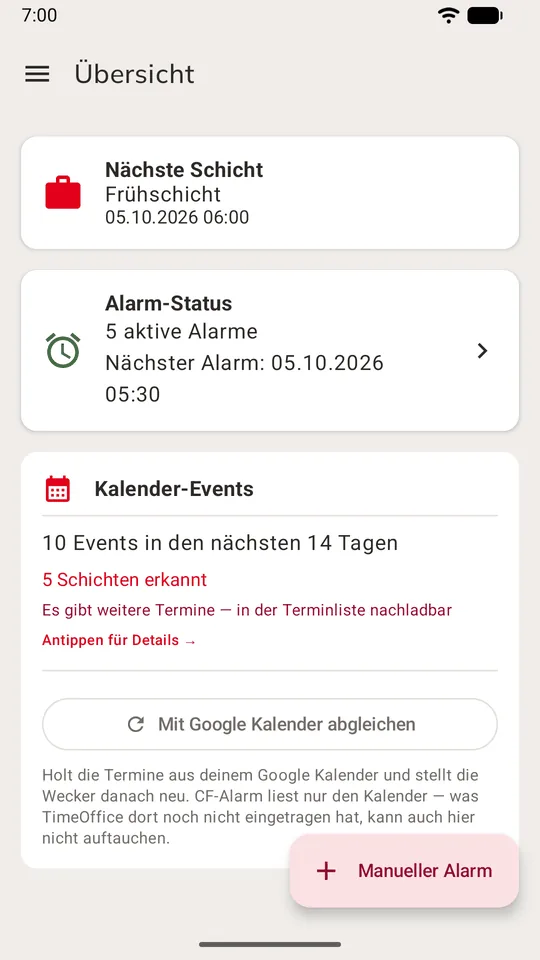
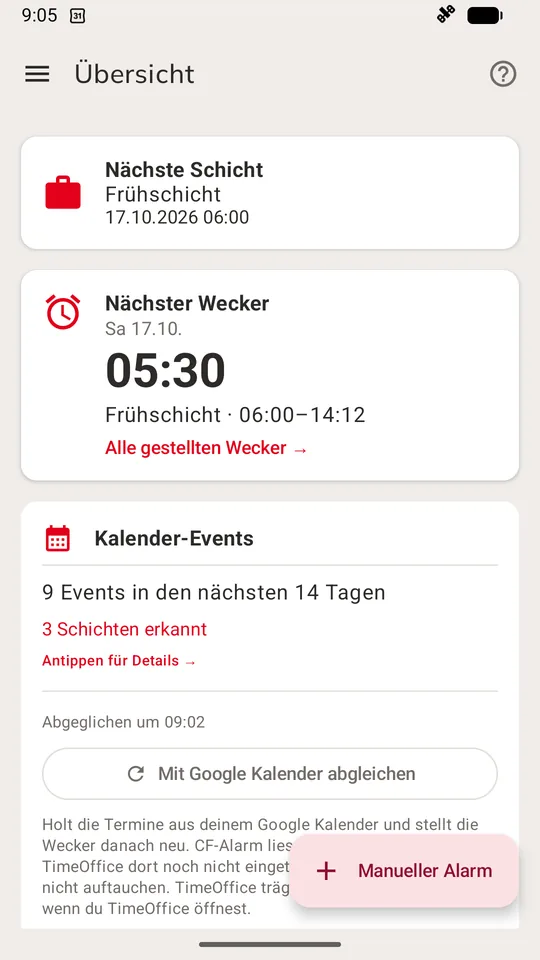
docs(website): Bildschirmfotos von Übersicht und Wecker auf Stand 1.50.0 (#139)
Claude-Session: https://claude.ai/code/session_01GnzSMZizpJLYSThWc2t95W

diff --git a/docs/index.html b/docs/index.html
@@ -70,7 +70,7 @@
                         <a class="button" href="advanced-setup.html">Zur Anleitung</a>
                     </div>
                 </div>
-                <img class="hero-shot" src="assets/img/screen-uebersicht.webp" width="540" height="960" alt="Übersicht der App: nächste Schicht und Kalender-Abgleich">
+                <img class="hero-shot" src="assets/img/screen-uebersicht.webp" width="540" height="960" alt="Übersicht der App: nächste Schicht, nächster Wecker und Kalender-Abgleich">
             </div>
         </section>
 
@@ -241,7 +241,7 @@
                 <p class="wisch-hinweis">Seitlich wischen oder scrollen, um alle Bildschirme zu sehen.</p>
                 <div class="galerie-rahmen" tabindex="0" role="region" aria-label="Bildschirme der App">
                     <ul class="gallery">
-                        <li><figure><img src="assets/img/screen-wecker.webp" width="540" height="960" loading="lazy" alt="Wecker-Bereich der App"><figcaption>Wecker</figcaption></figure></li>
+                        <li><figure><img src="assets/img/screen-wecker.webp" width="540" height="960" loading="lazy" alt="Wecker-Bereich der App: Liste der Dienst-Tage mit ihren Weckern"><figcaption>Wecker</figcaption></figure></li>
                         <li><figure><img src="assets/img/screen-schichttypen.webp" width="540" height="960" loading="lazy" alt="Schichttypen mit Weckzeit und einer Zeile, was jede Schicht auslöst"><figcaption>Schichttypen</figcaption></figure></li>
                         <li><figure><img src="assets/img/screen-schicht-dimmer.webp" width="540" height="960" loading="lazy" alt="Dimm-Regeln mit Vorlagen"><figcaption>Schicht-Dimmer</figcaption></figure></li>
                         <li><figure><img src="assets/img/screen-philips-hue.webp" width="540" height="960" loading="lazy" alt="Philips-Hue-Bereich mit einer Sonnenaufgangs-Regel"><figcaption>Philips Hue</figcaption></figure></li>
